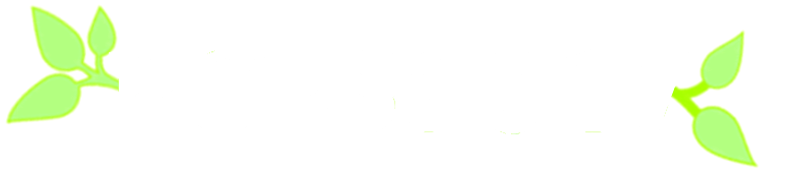
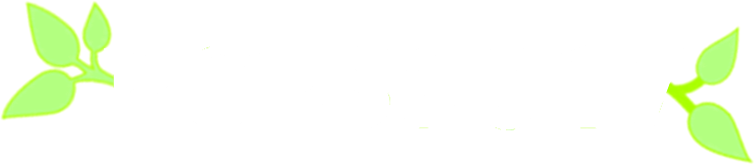
work on mobile menu

diff --git a/src/templates/default.html b/src/templates/default.html
@@ -13,8 +13,6 @@
 		<div id ="nav">
 
       <a id="logo" href="/"><img src="/files/ui/pges2017.png"</a>
-      <a id="logomobile" href="/"><img src="/files/ui/pges2017mobile.png"</a>
-
 			<div id="menu">
         <!-- TODO break this into 2 divs and rotate the other way on mobile -->
         <a href="/venue.html">Venue</a>
@@ -28,6 +26,9 @@
         <a href="https://www.facebook.com/berkeleypmb">Facebook</a>
         <a href="http://github.com/jefdaj/pges2017">GitHub</a>
       </div>
+
+			<div id="menumobile"><img src="/files/ui/menu-icon.png"></div>
+      <a id="logomobile" href="/"><img src="/files/ui/pges2017mobile.png"</a>
 
     </div>
 

diff --git a/src/css/nav.css b/src/css/nav.css
@@ -27,15 +27,24 @@ div#nav a:hover {
 
 
 @media all and (max-width: 650px) {
-    div#nav {
-    		text-align: center;
-    }
 		#logo, #menu {
 				display: none;
 		}
+		#menumobile a {
+			vertical-align: middle;
+		}
+		#menumobile img {
+			margin: 8px 0px 0px 5px;
+		}
+		#menumobile {
+			max-width: 15%;
+			float: left;
+			line-height: 0px;
+		}
 		#logomobile img {
+			vertical-align: middle;
 			width: 250px;
-			max-width: 70%;
+			margin: 0px 0px 0px 0px;
 		}
 }
 
